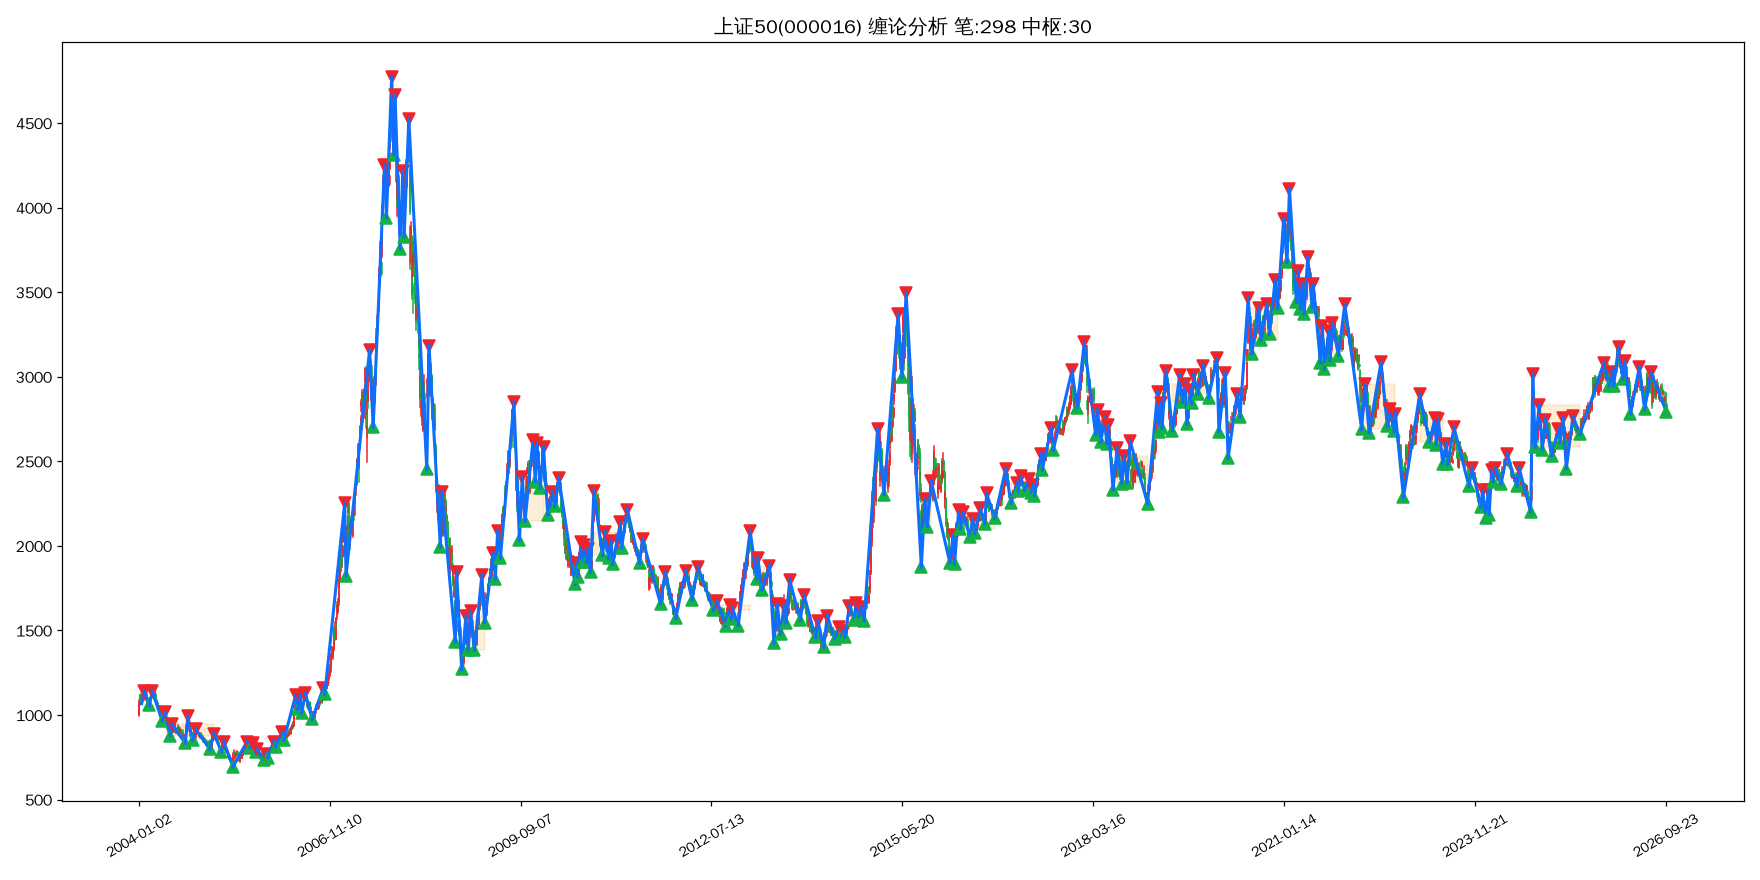
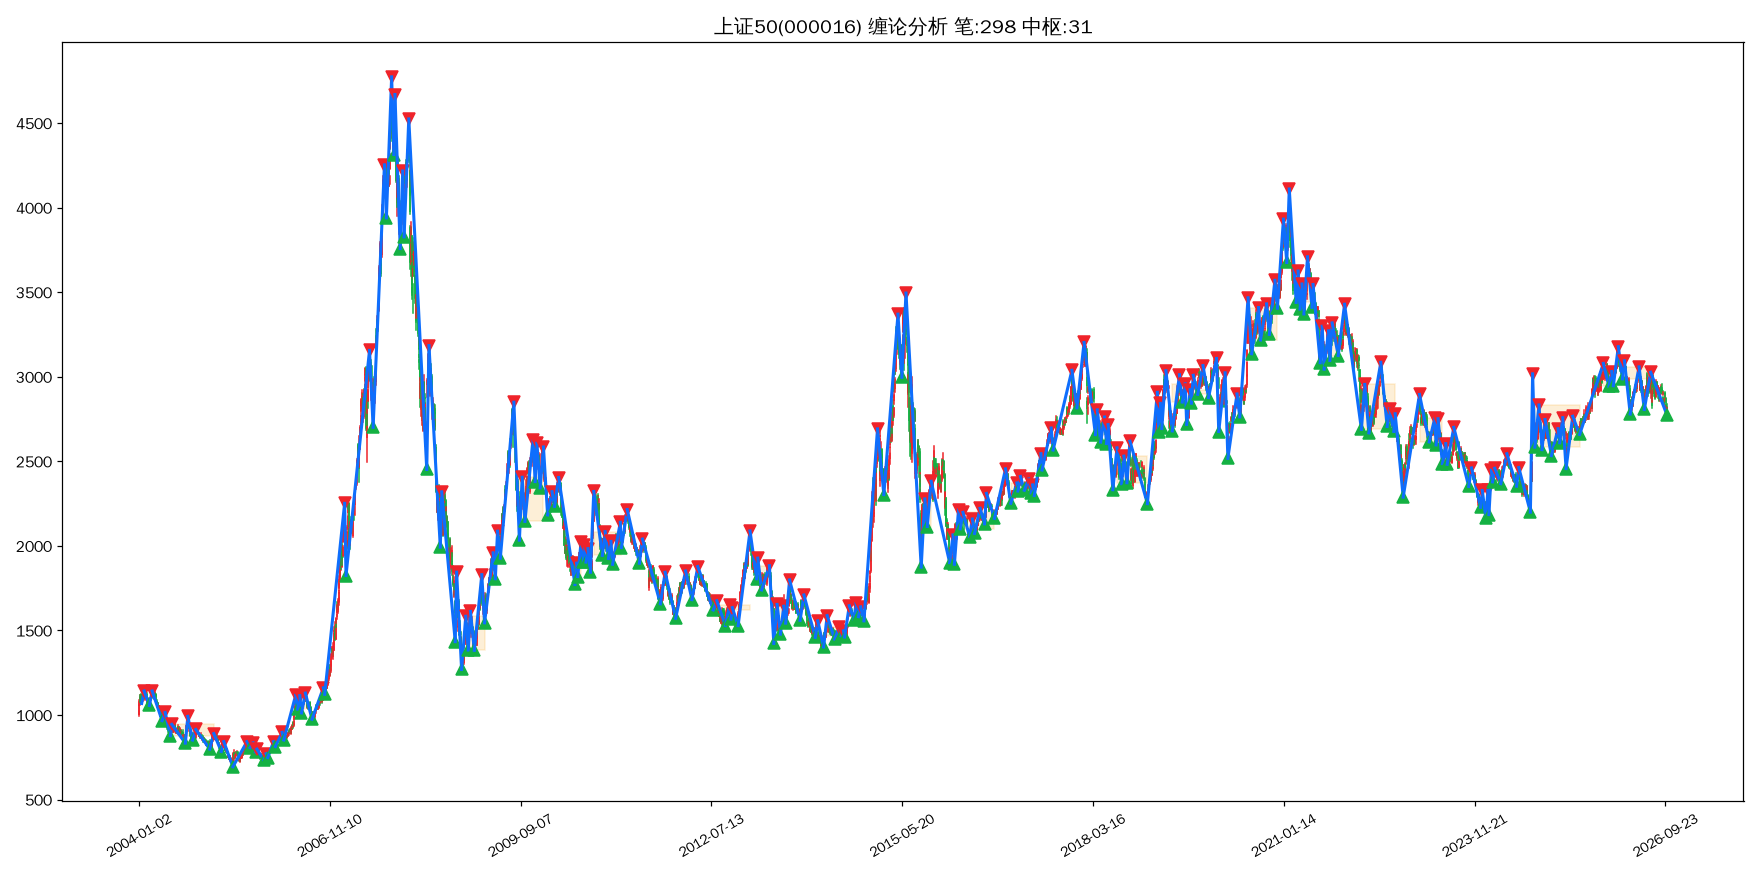
🤖 自动更新缠论分析报告与绘图

diff --git a/chan_report.md b/chan_report.md
@@ -119,28 +119,28 @@
 ![深证指数缠论图谱](chan_img/399001_深证指数.png)
 
 ## 创业板指（399006）
-- 最新收盘价：3036.657
-- 有效K线数量：3969
+- 最新收盘价：3043.335
+- 有效K线数量：3970
 - 笔总数：223 | 中枢总数：28
-- 最新一笔走势：下跌 | 2026-09-22~2026-10-08 | 3472.47 → 3012.03
+- 最新一笔走势：下跌 | 2026-09-22~2026-10-09 | 3472.47 → 2932.80
 - 缠论背驰判断：**无背驰**
-- 三类买卖点识别：**卖1p类@2010-12-20(1212.34)、卖2类@2011-01-06(1134.79)、卖2s类@2011-02-23(1114.05)、卖2s类@2011-03-11(1101.76)、买1类@2011-06-21(795.61)、买2类@2011-07-26(892.54)、买1类@2014-05-16(1226.47)、买2类@2014-07-24(1271.88)、买3b类@2014-10-27(1492.01)、买1类@2015-09-02(1855.03)、买2类@2015-11-03(2429.27)、卖1p类@2019-04-08(1739.65)、卖2类@2019-05-16(1533.67)、卖1类@2021-07-22(3544.44)、卖2类@2021-08-05(3532.50)、卖2s类@2021-11-30(3495.59)、卖2s类@2022-01-18(3144.33)、卖3a类@2022-03-01(2885.79)、卖1类@2023-01-30(2613.89)、卖2类@2023-04-11(2439.40)、卖2s类@2023-05-16(2294.19)、买1类@2023-06-08(2123.96)、买2类@2023-07-24(2146.93)、买1类@2024-02-05(1562.61)、买2类@2024-04-22(1750.46)、买2s类@2024-07-09(1652.12)、买2s类@2024-08-29(1541.40)、卖1p类@2026-01-13(3321.89)、卖2类@2026-02-25(3354.82)、买1类@2026-10-08(3036.66)**
+- 三类买卖点识别：**卖1p类@2010-12-20(1212.34)、卖2类@2011-01-06(1134.79)、卖2s类@2011-02-23(1114.05)、卖2s类@2011-03-11(1101.76)、买1类@2011-06-21(795.61)、买2类@2011-07-26(892.54)、买1类@2014-05-16(1226.47)、买2类@2014-07-24(1271.88)、买3b类@2014-10-27(1492.01)、买1类@2015-09-02(1855.03)、买2类@2015-11-03(2429.27)、卖1p类@2019-04-08(1739.65)、卖2类@2019-05-16(1533.67)、卖1类@2021-07-22(3544.44)、卖2类@2021-08-05(3532.50)、卖2s类@2021-11-30(3495.59)、卖2s类@2022-01-18(3144.33)、卖3a类@2022-03-01(2885.79)、卖1类@2023-01-30(2613.89)、卖2类@2023-04-11(2439.40)、卖2s类@2023-05-16(2294.19)、买1类@2023-06-08(2123.96)、买2类@2023-07-24(2146.93)、买1类@2024-02-05(1562.61)、买2类@2024-04-22(1750.46)、买2s类@2024-07-09(1652.12)、买2s类@2024-08-29(1541.40)、卖1p类@2026-01-13(3321.89)、卖2类@2026-02-25(3354.82)、买1类@2026-10-09(3043.34)**
 ![创业板指缠论图谱](chan_img/399006_创业板指.png)
 
 ## 沪深300（000300）
-- 最新收盘价：4310.277
-- 有效K线数量：6004
-- 笔总数：330 | 中枢总数：38
-- 最新一笔走势：上涨 | 2026-09-16~2026-09-22 | 4417.60 → 4583.38
-- 缠论背驰判断：**上涨趋势背驰（警惕阶段顶部）**
-- 三类买卖点识别：**买1p类@2003-11-18(1081.00)、买2类@2003-12-31(1194.74)、买3b类@2004-03-09(1314.17)、卖1类@2004-04-06(1410.43)、卖2,3b类@2004-06-01(1224.11)、买1p类@2005-06-06(839.00)、买2类@2005-09-28(903.72)、买2s类@2005-11-16(863.12)、买1p类@2008-11-04(1627.76)、买2类@2008-12-01(1864.20)、买2s类@2008-12-31(1817.72)、买3a类@2009-03-03(2142.15)、卖1类@2016-08-16(3378.24)、卖2类@2016-09-07(3340.82)、买1类@2019-01-04(3035.87)、买2,3b类@2019-05-27(3637.20)、买2s类@2019-07-22(3781.68)、买2s类@2019-08-06(3636.33)、买2s类@2019-10-09(3843.24)、买2s类@2019-11-29(3828.67)、卖1类@2020-01-14(4189.89)、卖2类@2020-02-21(4149.49)、卖2s类@2020-03-05(4206.73)、卖1p类@2021-02-18(5768.38)、卖2类@2021-04-06(5140.34)、卖2s类@2021-04-26(5077.24)、卖2s类@2021-05-27(5338.23)、卖2s类@2021-06-28(5251.76)、卖2s类@2021-07-22(5151.75)、买1类@2021-07-28(4760.48)、买2类@2021-08-20(4769.27)、买2s类@2021-09-22(4821.77)、买2s类@2021-11-10(4821.19)、买1类@2022-10-31(3508.70)、买2类@2022-11-28(3733.24)、买2s类@2022-12-23(3828.22)、卖1类@2023-01-30(4201.35)、卖2类@2023-04-18(4162.03)、卖2s类@2023-05-09(4027.88)、卖2s类@2023-06-16(3963.35)、卖3a类@2023-11-06(3632.61)、买1类@2024-02-02(3179.63)、买2,3b类@2024-04-12(3475.84)、卖1类@2026-01-13(4761.03)、卖2类@2026-02-25(4735.89)、卖2s类@2026-03-17(4637.44)**
+- 最新收盘价：4317.255
+- 有效K线数量：6005
+- 笔总数：331 | 中枢总数：39
+- 最新一笔走势：下跌 | 2026-09-22~2026-10-09 | 4583.38 → 4239.74
+- 缠论背驰判断：**无背驰**
+- 三类买卖点识别：**买1p类@2003-11-18(1081.00)、买2类@2003-12-31(1194.74)、买3b类@2004-03-09(1314.17)、卖1类@2004-04-06(1410.43)、卖2,3b类@2004-06-01(1224.11)、买1p类@2005-06-06(839.00)、买2类@2005-09-28(903.72)、买2s类@2005-11-16(863.12)、买1p类@2008-11-04(1627.76)、买2类@2008-12-01(1864.20)、买2s类@2008-12-31(1817.72)、买3a类@2009-03-03(2142.15)、卖1类@2016-08-16(3378.24)、卖2类@2016-09-07(3340.82)、买1类@2019-01-04(3035.87)、买2,3b类@2019-05-27(3637.20)、买2s类@2019-07-22(3781.68)、买2s类@2019-08-06(3636.33)、买2s类@2019-10-09(3843.24)、买2s类@2019-11-29(3828.67)、卖1类@2020-01-14(4189.89)、卖2类@2020-02-21(4149.49)、卖2s类@2020-03-05(4206.73)、卖1p类@2021-02-18(5768.38)、卖2类@2021-04-06(5140.34)、卖2s类@2021-04-26(5077.24)、卖2s类@2021-05-27(5338.23)、卖2s类@2021-06-28(5251.76)、卖2s类@2021-07-22(5151.75)、买1类@2021-07-28(4760.48)、买2类@2021-08-20(4769.27)、买2s类@2021-09-22(4821.77)、买2s类@2021-11-10(4821.19)、买1类@2022-10-31(3508.70)、买2类@2022-11-28(3733.24)、买2s类@2022-12-23(3828.22)、卖1类@2023-01-30(4201.35)、卖2类@2023-04-18(4162.03)、卖2s类@2023-05-09(4027.88)、卖2s类@2023-06-16(3963.35)、卖3a类@2023-11-06(3632.61)、买1类@2024-02-02(3179.63)、买2,3b类@2024-04-12(3475.84)、卖1类@2026-01-13(4761.03)、卖2类@2026-02-25(4735.89)、卖2s类@2026-03-17(4637.44)、买1类@2026-10-09(4317.26)**
 ![沪深300缠论图谱](chan_img/000300_沪深300.png)
 
 ## 上证50（000016）
-- 最新收盘价：2805.123
-- 有效K线数量：5526
-- 笔总数：298 | 中枢总数：30
-- 最新一笔走势：下跌 | 2026-07-10~2026-09-28 | 3026.43 → 2794.37
+- 最新收盘价：2807.455
+- 有效K线数量：5527
+- 笔总数：298 | 中枢总数：31
+- 最新一笔走势：下跌 | 2026-07-10~2026-10-09 | 3026.43 → 2772.88
 - 缠论背驰判断：**无背驰**
-- 三类买卖点识别：**买1p类@2005-06-06(717.21)、买2类@2005-08-31(816.75)、买2s类@2005-09-28(783.00)、卖1p类@2014-09-09(1645.11)、卖2类@2014-10-09(1634.04)、买1p类@2016-02-29(1944.61)、买2类@2016-03-29(2106.86)、买2s类@2016-05-18(2078.76)、买2s类@2016-06-15(2106.63)、买2s类@2016-08-04(2143.84)、买2s类@2016-09-27(2176.45)、卖1类@2016-11-29(2441.58)、卖2类@2017-01-26(2364.02)、卖2s类@2017-02-21(2396.88)、卖2s类@2017-04-06(2390.39)、卖2s类@2017-04-26(2344.51)、买1类@2018-07-03(2388.98)、买2类@2018-08-16(2405.16)、买2s类@2018-09-12(2381.39)、买3a类@2019-03-11(2708.60)、卖1类@2019-04-17(3017.42)、卖2类@2019-07-01(3002.94)、卖2s类@2019-07-30(2944.03)、卖1p类@2021-02-18(4014.32)、卖2类@2021-04-06(3594.71)、卖2s类@2021-04-26(3467.66)、卖2s类@2021-05-27(3664.94)、卖2s类@2021-06-25(3535.02)、卖3a类@2021-08-11(3262.57)、买1p类@2021-08-20(3072.76)、买2类@2021-09-22(3122.34)、买2s类@2021-11-10(3170.41)、买1类@2022-10-31(2295.92)、买2类@2023-03-20(2616.75)、买2s类@2023-04-25(2619.23)、买2s类@2023-05-31(2493.35)、卖1类@2024-05-20(2532.82)、卖2类@2024-07-19(2456.79)**
+- 三类买卖点识别：**买1p类@2005-06-06(717.21)、买2类@2005-08-31(816.75)、买2s类@2005-09-28(783.00)、卖1p类@2014-09-09(1645.11)、卖2类@2014-10-09(1634.04)、买1p类@2016-02-29(1944.61)、买2类@2016-03-29(2106.86)、买2s类@2016-05-18(2078.76)、买2s类@2016-06-15(2106.63)、买2s类@2016-08-04(2143.84)、买2s类@2016-09-27(2176.45)、卖1类@2016-11-29(2441.58)、卖2类@2017-01-26(2364.02)、卖2s类@2017-02-21(2396.88)、卖2s类@2017-04-06(2390.39)、卖2s类@2017-04-26(2344.51)、买1类@2018-07-03(2388.98)、买2类@2018-08-16(2405.16)、买2s类@2018-09-12(2381.39)、买3a类@2019-03-11(2708.60)、卖1类@2019-04-17(3017.42)、卖2类@2019-07-01(3002.94)、卖2s类@2019-07-30(2944.03)、卖1p类@2021-02-18(4014.32)、卖2类@2021-04-06(3594.71)、卖2s类@2021-04-26(3467.66)、卖2s类@2021-05-27(3664.94)、卖2s类@2021-06-25(3535.02)、卖3a类@2021-08-11(3262.57)、买1p类@2021-08-20(3072.76)、买2类@2021-09-22(3122.34)、买2s类@2021-11-10(3170.41)、买1类@2022-10-31(2295.92)、买2类@2023-03-20(2616.75)、买2s类@2023-04-25(2619.23)、买2s类@2023-05-31(2493.35)、卖1类@2024-05-20(2532.82)、卖2类@2024-07-19(2456.79)、买1类@2026-10-09(2807.45)**
 ![上证50缠论图谱](chan_img/000016_上证50.png)
